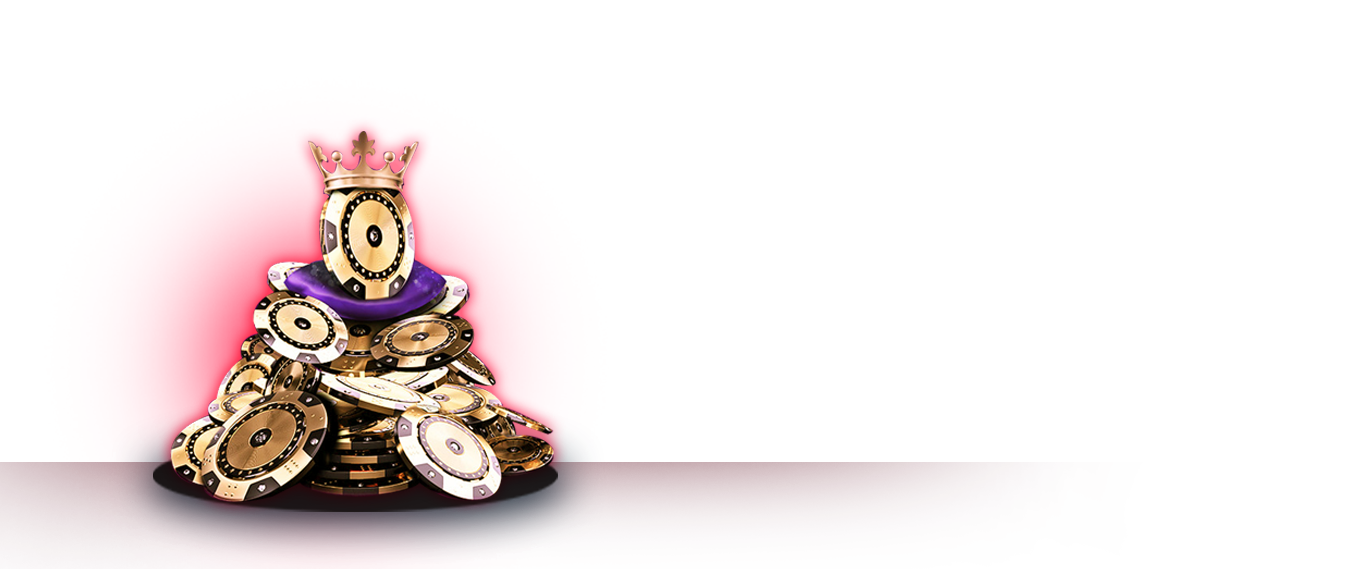
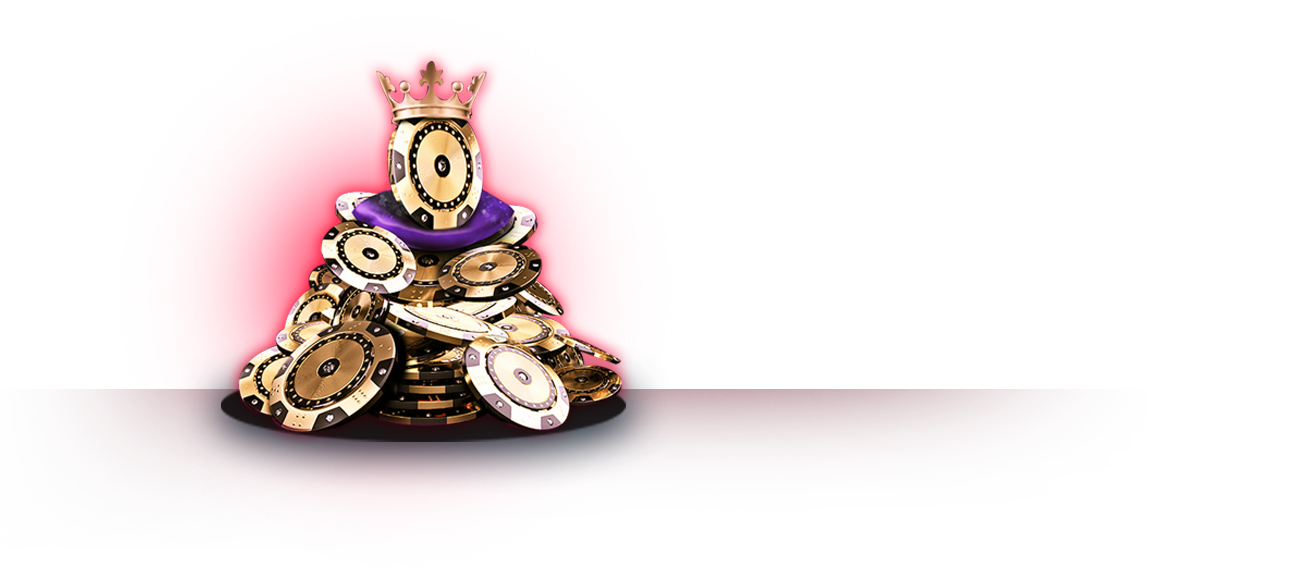
adjust chess image

Changed region(s): [[0.0, 0.0896, 0.7669, 0.9859]]

diff --git a/src/components/App/Qipai/index.js b/src/components/App/Qipai/index.js
@@ -16,12 +16,12 @@ const Container = styled.div`
 
   width: 100%;
   height: auto;
-  min-height: 770px;
-  padding: 70px 0px;
+  min-height: 720px;
+
   position: relative;
   background: url(${(props) =>
       process.env.PUBLIC_URL}/assets/images/pcGamePage/qipai/background.jpg)
-    no-repeat center;
+    no-repeat center 0px;
 `;
 
 const leftRightLeft = keyframes`

diff --git a/src/components/App/Home/index.js b/src/components/App/Home/index.js
@@ -138,7 +138,7 @@ const TheButtonSubtitle = styled.div`
 const StashOfCoins = styled.div`
   height: 500px;
   background: url(${CoinPNG}) no-repeat;
-  background-position: center;
+  background-position: 0px 43px;
 `;
 
 const IconsMenu = styled.img`
